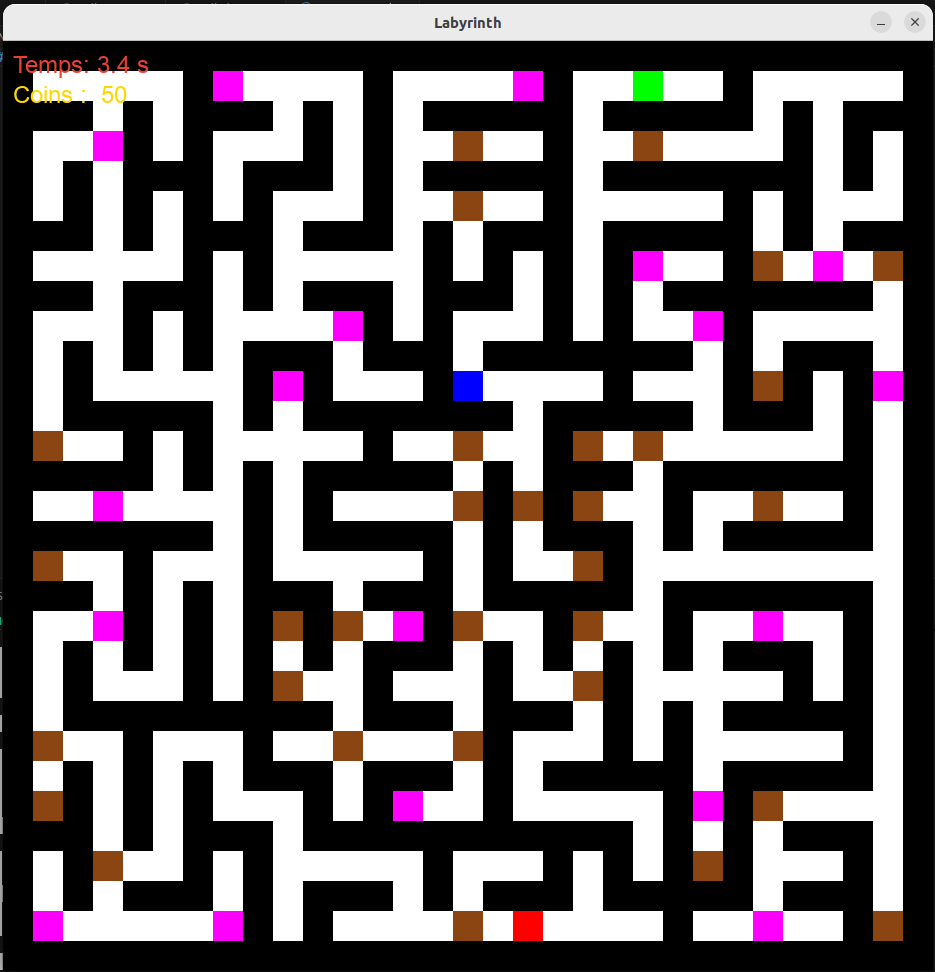
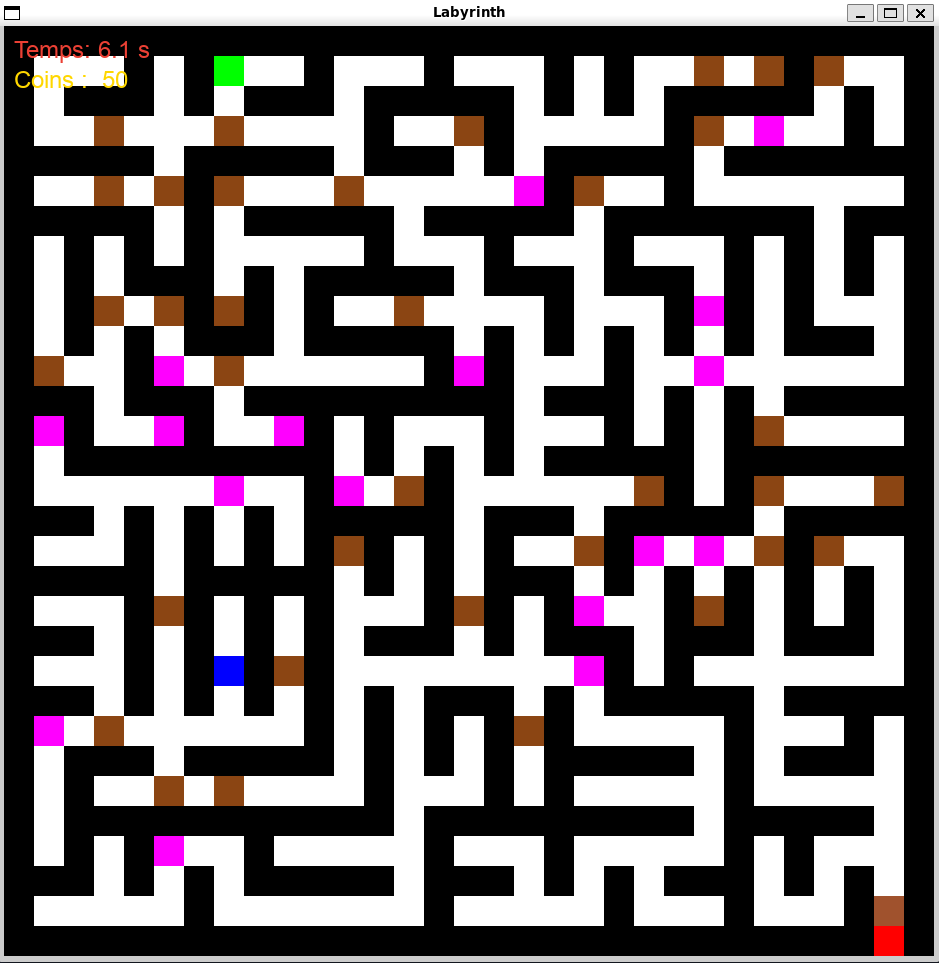
doc: readme

diff --git a/test/test_labyrinth_generator.c b/test/test_labyrinth_generator.c
@@ -1,3 +1,55 @@
-#include <stdio.h>
-#include <stdlib.h>
 #include "minunit.h"
+#include "utils.h"
+#include "labyrinth_generator.h" 
+#include <stdlib.h>
+
+int visited_count(Labyrinth labyrinth, int **visited, int x, int y) {
+    if (x < 0 || y < 0 || x >= labyrinth.length * 2 + 1 || y >= labyrinth.width * 2 + 1) return 0;
+    if (visited[x][y]) return 0;
+    if (labyrinth.grid[x][y] == WALL) return 0;
+
+    visited[x][y] = 1;
+    int count = 1;
+
+    count += visited_count(labyrinth, visited, x + 1, y);
+    count += visited_count(labyrinth, visited, x - 1, y);
+    count += visited_count(labyrinth, visited, x, y + 1);
+    count += visited_count(labyrinth, visited, x, y - 1);
+
+    return count;
+}
+
+MU_TEST(test_labyrinth_is_perfect) {
+    int length = 5;
+    int width = 5;
+    Labyrinth labyrinth = generate_labyrinth(length, width);
+
+    int rows = length * 2 + 1;
+    int cols = width * 2 + 1;
+
+    int **visited = allocate_matrix_walls(rows, cols);
+
+    int reachable_cells = visited_count(labyrinth, visited, labyrinth.starting_x, labyrinth.starting_y);
+
+    int total_path_cells = 0;
+    for (int i = 0; i < rows; i++) {
+        for (int j = 0; j < cols; j++) {
+            if (labyrinth.grid[i][j] != WALL) total_path_cells++;
+        }
+    }
+
+    mu_assert_int_eq(total_path_cells, reachable_cells);
+
+    free_matrix(visited, rows);
+    free_labyrinth(labyrinth, length, width);
+}
+
+MU_TEST_SUITE(test_suite) {
+    MU_RUN_TEST(test_labyrinth_is_perfect);
+}
+
+int main() {
+    MU_RUN_SUITE(test_suite);
+    MU_REPORT();
+    return 0;
+}

diff --git a/src/subunit/labyrinth_player_movement.c b/src/subunit/labyrinth_player_movement.c
@@ -55,7 +55,6 @@ void try_unlock_door(Labyrinth *labyrinth, SDL_Renderer *renderer) {
     int door_x = labyrinth->ending_x;
     int door_y = labyrinth->ending_y;
 
-    // Vérifie si la porte est devant la sortie
     if (((x == door_x - 1 && y == door_y) ||
          (x == door_x + 1 && y == door_y) ||
          (y == door_y - 1 && x == door_x) ||
@@ -151,7 +150,7 @@ int movement_orchestrator(SDL_Event e, Labyrinth *labyrinth, SDL_Renderer *rende
         case SDLK_d:
             move_player(labyrinth, 0, 1, renderer);
             return 1;
-        case SDLK_e:  // Déverrouiller la porte devant la sortie
+        case SDLK_e: 
             try_unlock_door(labyrinth, renderer);
             return 0;
         default:

diff --git a/README.md b/README.md
@@ -1,18 +1,161 @@
-# Labyrinth-Generator
+# 🌀 Labyrinth-Generator
 
-## App
+Un générateur et explorateur de labyrinthes interactif en **C / SDL2**.  
+Crée, explore et survis à un labyrinthe rempli de **pièges**, **coffres**, et **clés**, le tout avec une interface graphique en SDL2.
 
-## Preview
+---
+
+## 🧩 Aperçu
 
 ![Labyrinth preview](asset/lab.png)
 
-## Install
+---
 
-```ssh
+## ⚙ Fonctionnalités
 
+- **Génération procédurale** du labyrinthe à partir d’une graine pseudo-aléatoire  
+- **Gestion des murs, chemins, clés, coffres et pièges**  
+- **Déplacement du joueur** en temps réel (ZQSD ou flèches)  
+- **Interface graphique** avec affichage du temps et des points (via SDL2 + SDL_ttf)  
+- **Sauvegarde / chargement** de configurations (`config/*.cfg`)  
+- **Score dynamique** : chaque action influe sur votre nombre de pièces 💰
+- **Sauvegarde locale** : Sauvegarde locale à la fin de chaque partie  (`score/*.score`) 
+
+---
+
+## 🏗 Installation
+
+### 1⃣ Cloner le dépôt
+```bash
 git clone https://github.com/waylow1/Labyrinth-Generator.git
-
+cd Labyrinth-Generator
 ```
 
-Then run a make 
+### 2⃣ Installer les dépendances
+Assurez-vous d’avoir **SDL2** et **SDL2_ttf** installés sur votre système :
 
+#### 🐧 Sur Linux :
+```bash
+sudo apt install libsdl2-dev libsdl2-ttf-dev
+```
+
+#### 🍎 Sur macOS (Homebrew) :
+```bash
+brew install sdl2 sdl2_ttf
+```
+
+---
+
+## 🧱 Compilation
+
+Compilez l’application avec :
+
+```bash
+make
+```
+
+Le binaire sera généré dans `bin/labyrinth`.
+
+---
+
+## ▶ Exécution
+
+Pour lancer l’application :
+
+```bash
+./bin/labyrinth
+```
+
+L’application vous proposera :
+- soit de **charger un labyrinthe** depuis `config/`,
+- soit d’en **générer un nouveau** à partir d’une graine aléatoire.
+
+Les fichiers `.cfg` contiennent les paramètres de génération :
+```
+<seed>,<lines>,<columns>
+```
+
+---
+
+## 🎮 Commandes
+
+| Touche | Action |
+|:------:|:--------|
+| Z / ↑ | Déplacer vers le haut |
+| S / ↓ | Déplacer vers le bas |
+| Q / ← | Déplacer vers la gauche |
+| D / → | Déplacer vers la droite |
+
+---
+
+## 💡 Éléments du jeu
+
+| Élément | Description |
+|----------|--------------|
+| 🧍 | Joueur |
+| 🧱 | Mur (infranchissable) |
+| 🔑 | Clé (nécessaire pour sortir) |
+| 🎁 | Coffre (+1000 pièces) |
+| 💀 | Piège (-500 pièces) |
+| 🚪 | Sortie (accessible uniquement avec la clé) |
+
+---
+
+## 🧮 Système de score
+
+- Chaque **déplacement** coûte 1 pièce 💰  
+- Ouvrir un **coffre** rapporte +1000 💎  
+- Marcher sur un **piège** fait perdre -500 ☠  
+- Le score final est calculé à la fin de la partie.
+
+---
+
+## 🧰 Arborescence du projet
+
+```
+Labyrinth-Generator/
+├── asset/
+│   ├── lab.png
+│   └── arial.ttf
+├── bin/
+│   └── labyrinth
+├── config/
+│   └── *.cfg
+├── include/
+│   ├── utils.h
+│   ├── labyrinth_generator.h
+│   ├── labyrinth_player_movement.h
+│   ├── labyrinth_score.h
+│   └── ...
+├── src/
+│   ├── main.c
+│   ├── utils.c
+│   ├── labyrinth_generator.c
+│   ├── labyrinth_player_movement.c
+│   └── ...
+├── Makefile
+└── README.md
+```
+
+---
+
+## 🧠 Architecture & modules principaux
+
+### `utils.c`
+Gestion mémoire, création/suppression de matrices, chargement et sauvegarde de labyrinthes.
+
+### `labyrinth_generator.c`
+Algorithme de **fusion d’ensembles (Union-Find simplifié)** pour créer un labyrinthe parfait.  
+Ajoute ensuite des objets, pièges et points de départ/arrivée.
+
+### `labyrinth_player_movement.c`
+Gestion du joueur, des collisions et de l’affichage SDL2 (temps, score, interactions).
+
+---
+
+## 🧾 Licence
+
+Projet libre sous licence **MIT**.  
+Créé par [@waylow1](https://github.com/waylow1).
+
+---
